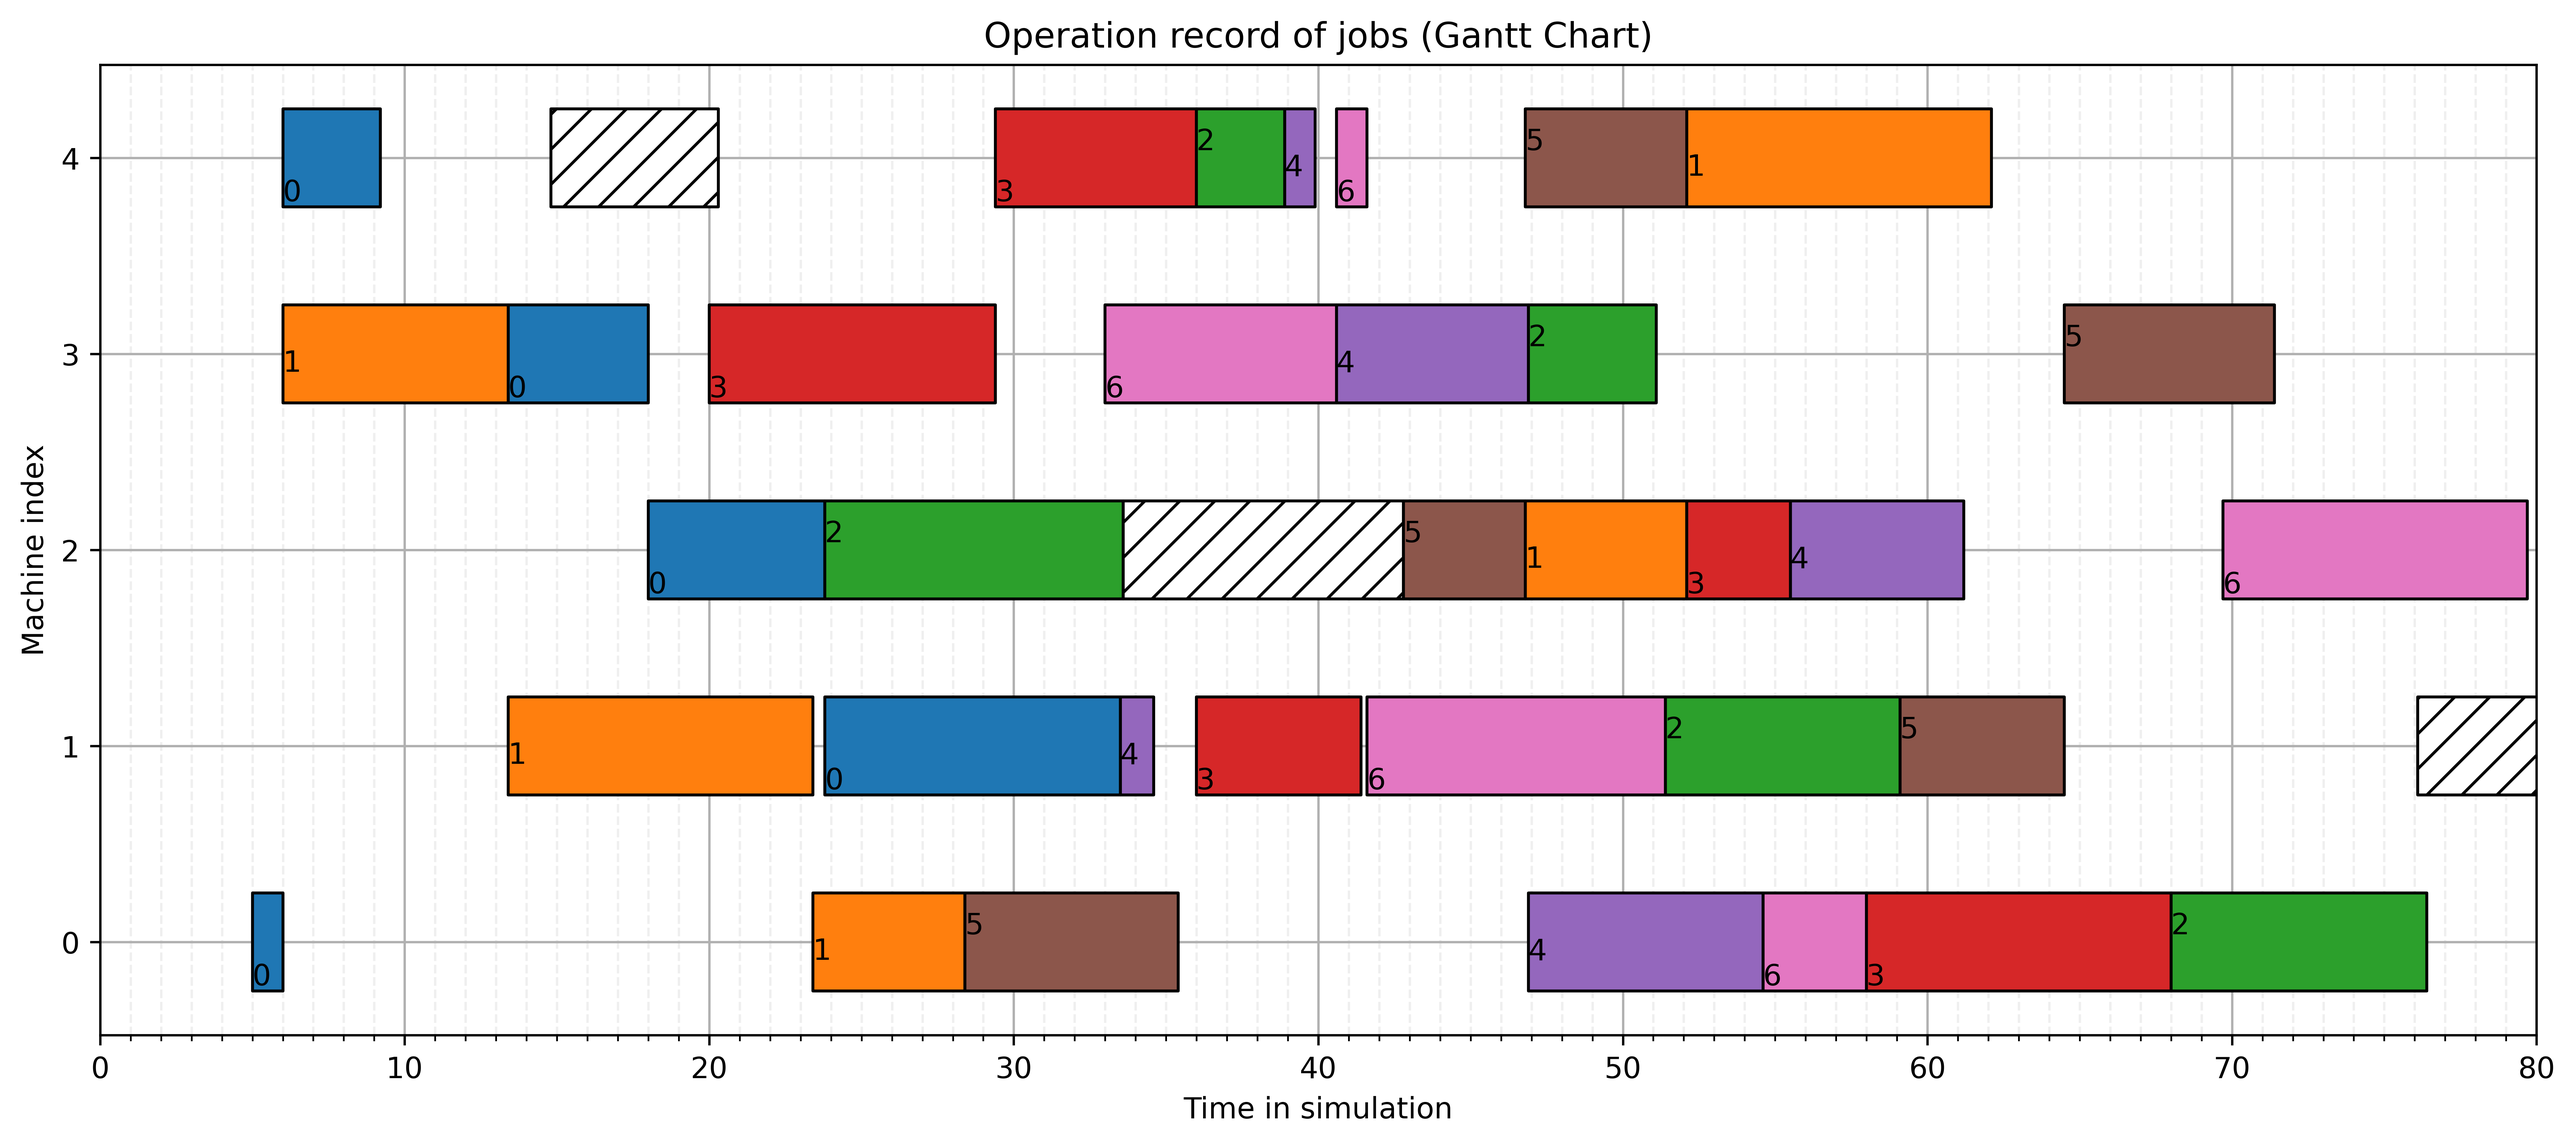
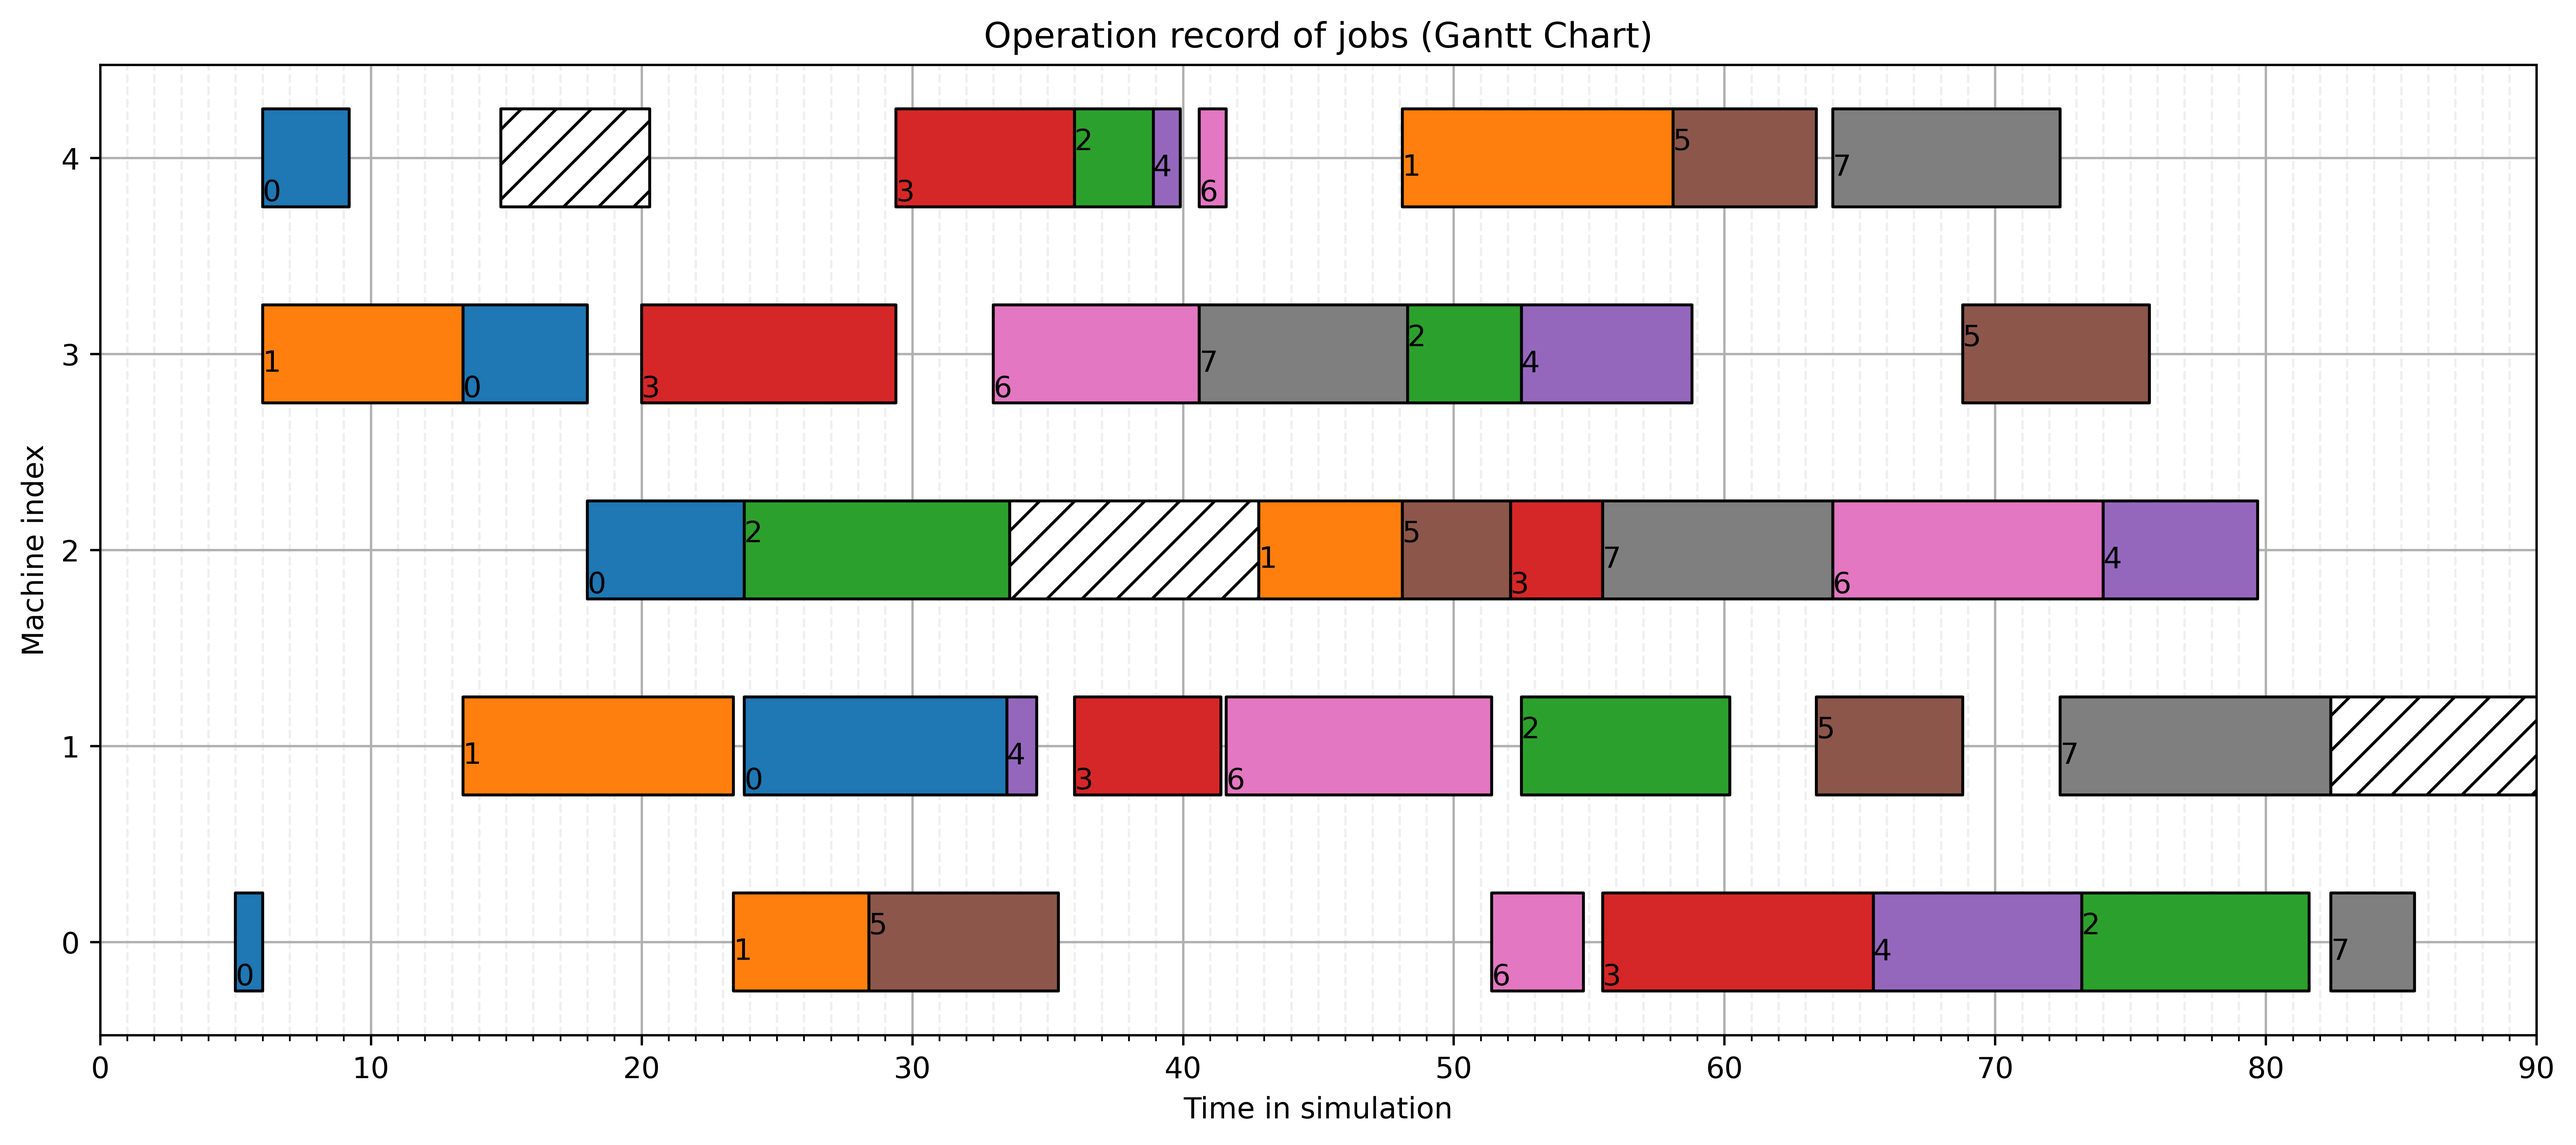
update job instance

diff --git a/simulator/job.py b/simulator/job.py
@@ -18,14 +18,16 @@ class Job:
         # processing time seed
         seed = self.pt_by_m_idx[self.trajectory]
         if kwargs['pt_cv'] == 0:
-            self.remaining_pt = list(seed)
-            self.actual_remaining_pt = list(seed) # a stack of actual processing time, equals expected pt
+            remaining_pt = list(seed)
+            actual_remaining_pt = list(seed) # a stack of actual processing time, equals expected pt
         else:
-            self.remaining_pt = list(seed)
+            remaining_pt = list(seed)
             actual_pt = np.around(np.random.normal(seed, seed*kwargs['pt_cv']), decimals=1).clip(*kwargs['pt_range'])
-            self.actual_remaining_pt = list(actual_pt) # a stack of actual processing time, different from expected pt
+            actual_remaining_pt = list(actual_pt) # a stack of actual processing time, different from expected pt
         # a stack of machine indices
-        self.remaining_m = list(self.trajectory) # a stack of machine index that job needs to visit
+        remaining_machines = list(self.trajectory) # a stack of machine index that job needs to visit
+        # zip remaining machines, expected pt, and actual pt
+        self.remaining_operations = list(zip(remaining_machines, remaining_pt, actual_remaining_pt))
         # produce due date for job, which is proportional to the total processing time
         self.due = np.round(self.pt_by_m_idx.sum() * np.random.uniform(1.2, kwargs['due_tightness']) + self.env.now)        
         # optional attributes
@@ -34,7 +36,7 @@ class Job:
         # data recording
         self.operation_record = []
         self.logger.info("{} >>> JOB {} created, trajectory: {}, exp.pt: {}, actual pt: {}, due: {}".format(
-            self.env.now, self.j_idx, self.trajectory , self.remaining_pt, self.actual_remaining_pt, self.due))
+            self.env.now, self.j_idx, self.trajectory , remaining_pt, actual_remaining_pt, self.due))
 
 
     def before_operation(self):
@@ -44,11 +46,11 @@ class Job:
     # update the information, get ready for transfer or exit
     def after_operation(self, *args):
         # if job is not completed
-        if len(self.remaining_m) > 1:
-            self.remaining_pt.pop(0)
-            self.actual_remaining_pt.pop(0)
-            self.remaining_m.pop(0)
-            next = self.remaining_m[0] # next station's index
+        if len(self.remaining_operations) > 1:
+            # pop current operation
+            self.remaining_operations.pop(0)
+            # retrieve machine index from next operation
+            next = self.remaining_operations[0][0]
             return next
         else:
             self.completion()

diff --git a/simulator/machine.py b/simulator/machine.py
@@ -57,7 +57,7 @@ class Machine:
             # if we have more than one queuing jobs, sequencing is required
             if len(self.queue) > 1:
                 # the returned value is picked job's position in machine's queue
-                self.sqc_decision_pos = self.job_sequencing(jobs = self.queue)
+                self.sqc_decision_pos = self.job_sequencing(jobs = self.queue, m_idx = self.m_idx)
                 self.picked_j_instance = self.queue[self.sqc_decision_pos]
                 self.logger.info("{} >>> SQC on: Machine {} picks Job {}".format(
                     self.env.now, self.m_idx, self.picked_j_instance.j_idx))
@@ -68,11 +68,11 @@ class Machine:
                 self.logger.info("{} >>> SQC off: Machine {} processes Job {}".format(
                     self.env.now, self.m_idx, self.picked_j_instance.j_idx))
             # retrive the information of job
-            pt = self.picked_j_instance.actual_remaining_pt[0] # the actual processing time in this stage, can be different from expected value
+            pt = self.picked_j_instance.remaining_operations[0][2] # the actual processing time in this stage, can be different from expected value
             wait = self.env.now - self.picked_j_instance.arrival_t # time that job waited before being picked
             self.after_decision(pt, wait)
             self.logger.debug("{} >>> PT: Job {} on Machine {} proc.t, expected: {}, actual: {}".format(
-                self.env.now, self.picked_j_instance.j_idx, self.m_idx, self.picked_j_instance.remaining_pt[0], pt))
+                self.env.now, self.picked_j_instance.j_idx, self.m_idx, self.picked_j_instance.remaining_operations[0][1], pt))
             # The production process (yield the processing time of operation)
             yield self.env.timeout(pt)
             self.logger.info("{} >>> DEP: Job {} departs from Machine {}".format(

diff --git a/simulator/event_narrator.py b/simulator/event_narrator.py
@@ -49,12 +49,14 @@ class Narrator:
         ''' 
         1.2 Machine initialization: knowing each other and specify the sequencing rule
         '''
+        self.opt_mode = False
         if 'sqc_rule' in kwargs:
             if kwargs['sqc_rule'] == 'complete_schedule': # follow a complete schedule
                 pass
                 #self.job_sequencing_func = complete_schedule.who_is_next()
             elif kwargs['sqc_rule'] == 'opt_scheduler': # or using mathematical optimization to produce dynamic schedule
-                self.central_scheduler = OPT_scheduler()
+                self.central_scheduler = OPT_scheduler(**self.kwargs)
+                self.opt_mode = True
                 job_sequencing_func = self.central_scheduler.draw_from_schedule
                 self.logger.info("* Optimization mode is ON, A centralized Gurobi scheduler is created, all machines use a central schedule")
             else: # otherwise a valid sequencing rule must be specified
@@ -106,6 +108,9 @@ class Narrator:
                 env = self.env, logger = self.logger, recorder = self.recorder,
                 job_index = self.j_idx, trajectory = trajectory_seed.copy(), processing_time_list = ptl.copy(),
                 pt_range = self.pt_range, pt_cv = self.pt_cv, due_tightness = self.due_tightness)
+            # build a new schedule if optimization mode is on
+            if self.opt_mode:
+                self.central_scheduler.solve_problem()
             # after creating a job, assign it to the first machine along its trajectory
             first_m = trajectory_seed[0]
             self.m_list[first_m].job_arrival(job_instance)

diff --git a/simulator/opt_scheduler.py b/simulator/opt_scheduler.py
@@ -9,13 +9,13 @@ class OPT_scheduler:
         for k, v in kwargs.items():
             setattr(self, k, v)
         self.schedule = {}
-        self.grb_env = gp.Env(empty=False)
-        self.grb_env.setParam('LogToConsole', 0)
-        self.grb_env.setParam('LogFile', Path(__file__).parent/"log"/"gurobi.log")
-        self.grb_env.start()
+        with gp.Env(empty=False) as self.grb_env:
+            self.grb_env.setParam('LogToConsole', 0)
+            self.grb_env.setParam('LogFile', str(Path(__file__).parent/"log"/"gurobi.log"))
+            self.grb_env.start()
 
 
-    def build_schedule(self, jobs):
+    def solve_problem(self, jobs):
         with gp.Model(name="opt_scheduler", env=self.grb_env) as model:
             # get the pairing of job and machine, to build the starting time of operation constraint
             m_idx_list = []
@@ -35,5 +35,5 @@ class OPT_scheduler:
         pass
 
 
-    def draw_from_schedule(self):
+    def draw_from_schedule(self, jobs, m_idx, *args):
         pass

diff --git a/simulator/sequencing_rule.py b/simulator/sequencing_rule.py
@@ -1,17 +1,17 @@
 import numpy as np
 from dataclasses import dataclass
 
-def FIFO(jobs, *args):
+def FIFO(jobs, *args, **kwargs):
     return 0
 
-def LIFO(jobs, *args):
+def LIFO(jobs, *args, **kwargs):
     return -1
 
-def Slack(jobs, *args):
+def Slack(jobs, *args, **kwargs):
     s = np.array([j.due for j in jobs]) - jobs[0].env.now
     return np.argmin(s)
 
-def CR(jobs, *args):
+def CR(jobs, *args, **kwargs):
     ttd = np.array([j.due for j in jobs]) - jobs[0].env.now
     sum_pt = np.array([sum(j.remaining_pt) for j in jobs])
     critical_ratio = ttd / sum_pt

diff --git a/simulator/shopfloor.py b/simulator/shopfloor.py
@@ -50,7 +50,7 @@ class Shopfloor:
 
 if __name__ == '__main__':
     spf = Shopfloor(m_no=5, span=50, pt_range=[1,10], due_tightness=2, E_utliz=0.8,
-                    sqc_rule='opt_scheduler', machine_breakdown=True, MTBF=100, MTTR=10, random_bkd=True,
+                    sqc_rule='FIFO', machine_breakdown=True, MTBF=100, MTTR=10, random_bkd=True,
                     processing_time_variability=True, pt_cv=0.1,
                     draw_gantt=5, save_gantt=True, seed = 10000)
     spf.run_simulation()

diff --git a/simulator/gantt_chart.py b/simulator/gantt_chart.py
@@ -70,4 +70,4 @@ class Draw:
             plt.pause(kwargs['draw_gantt'])
             plt.close(fig)
         if 'save_gantt' in kwargs and kwargs['save_gantt']:
-            fig.savefig(Path() / 'log' / 'gantt_chart.png', dpi=600, bbox_inches='tight')
+            fig.savefig(Path(__file__).parent / 'log' / 'gantt_chart.png', dpi=600, bbox_inches='tight')
